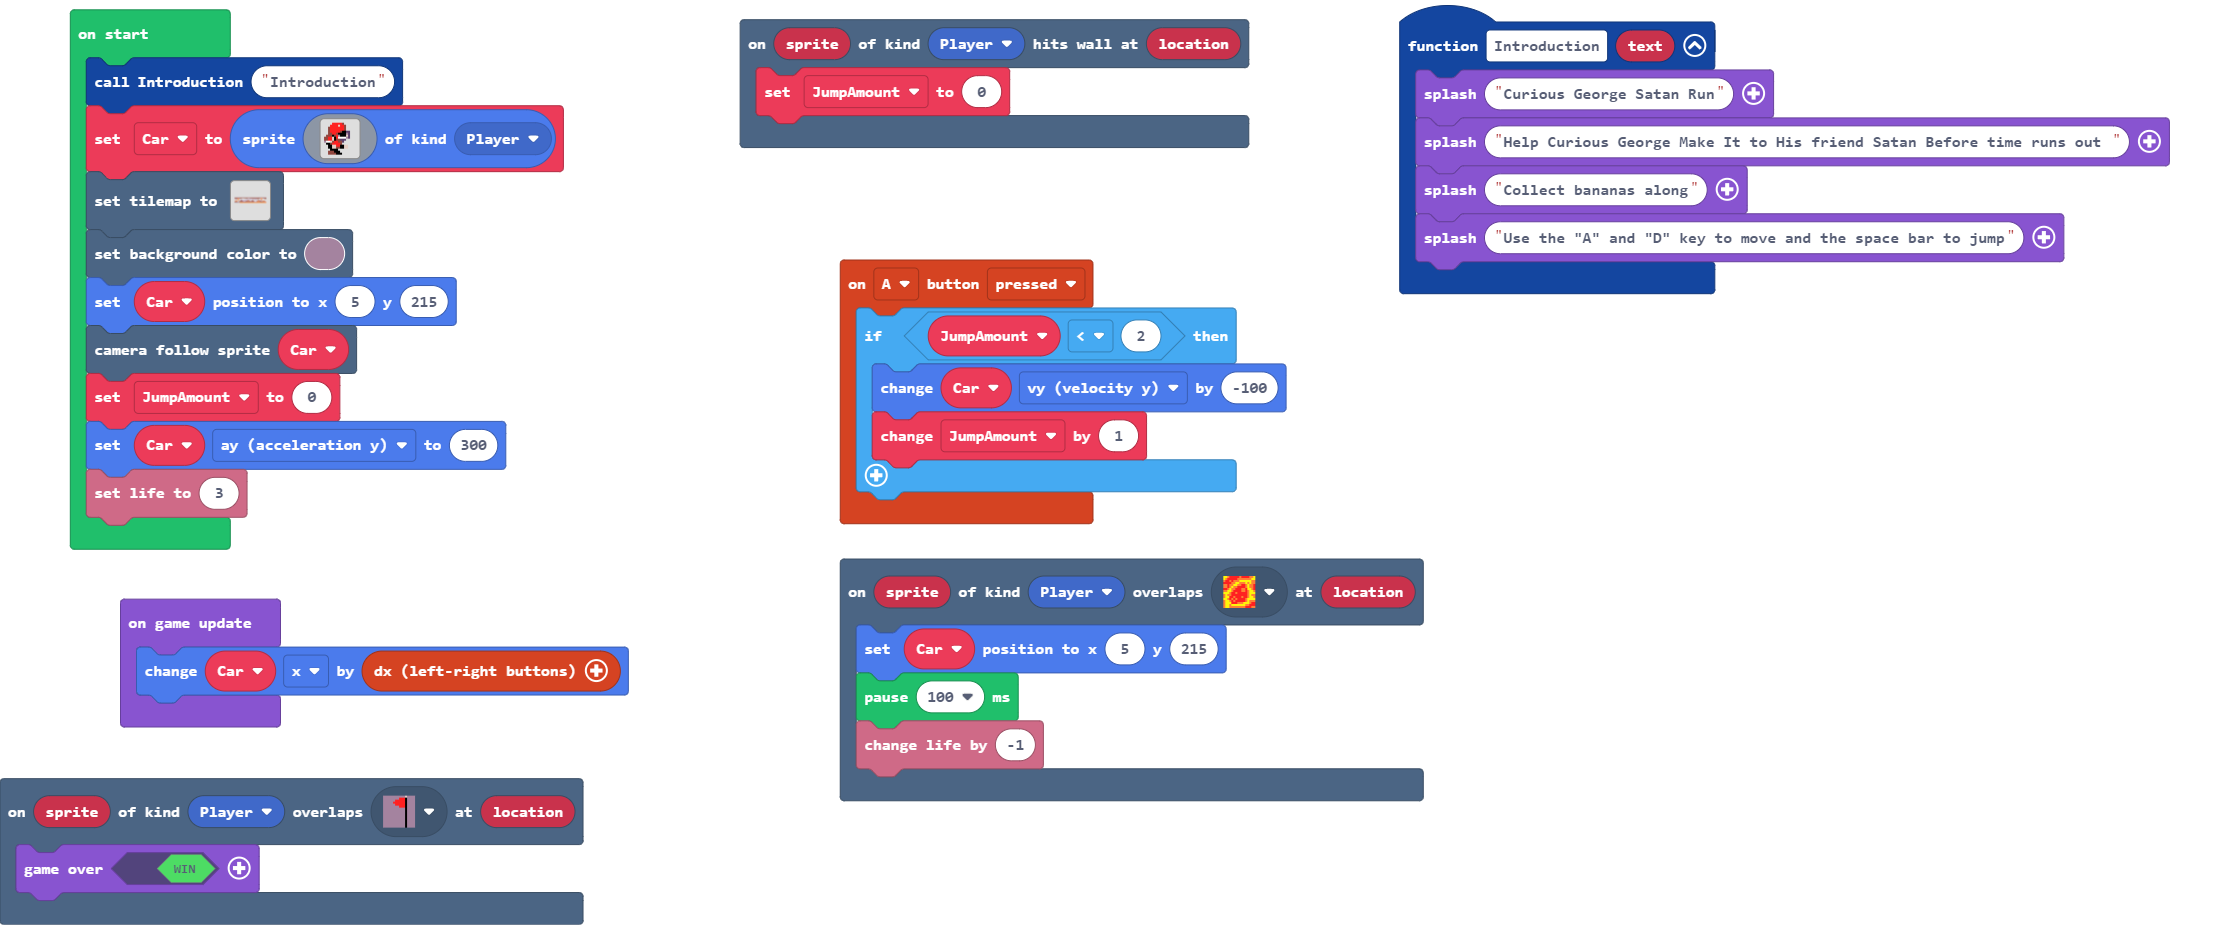
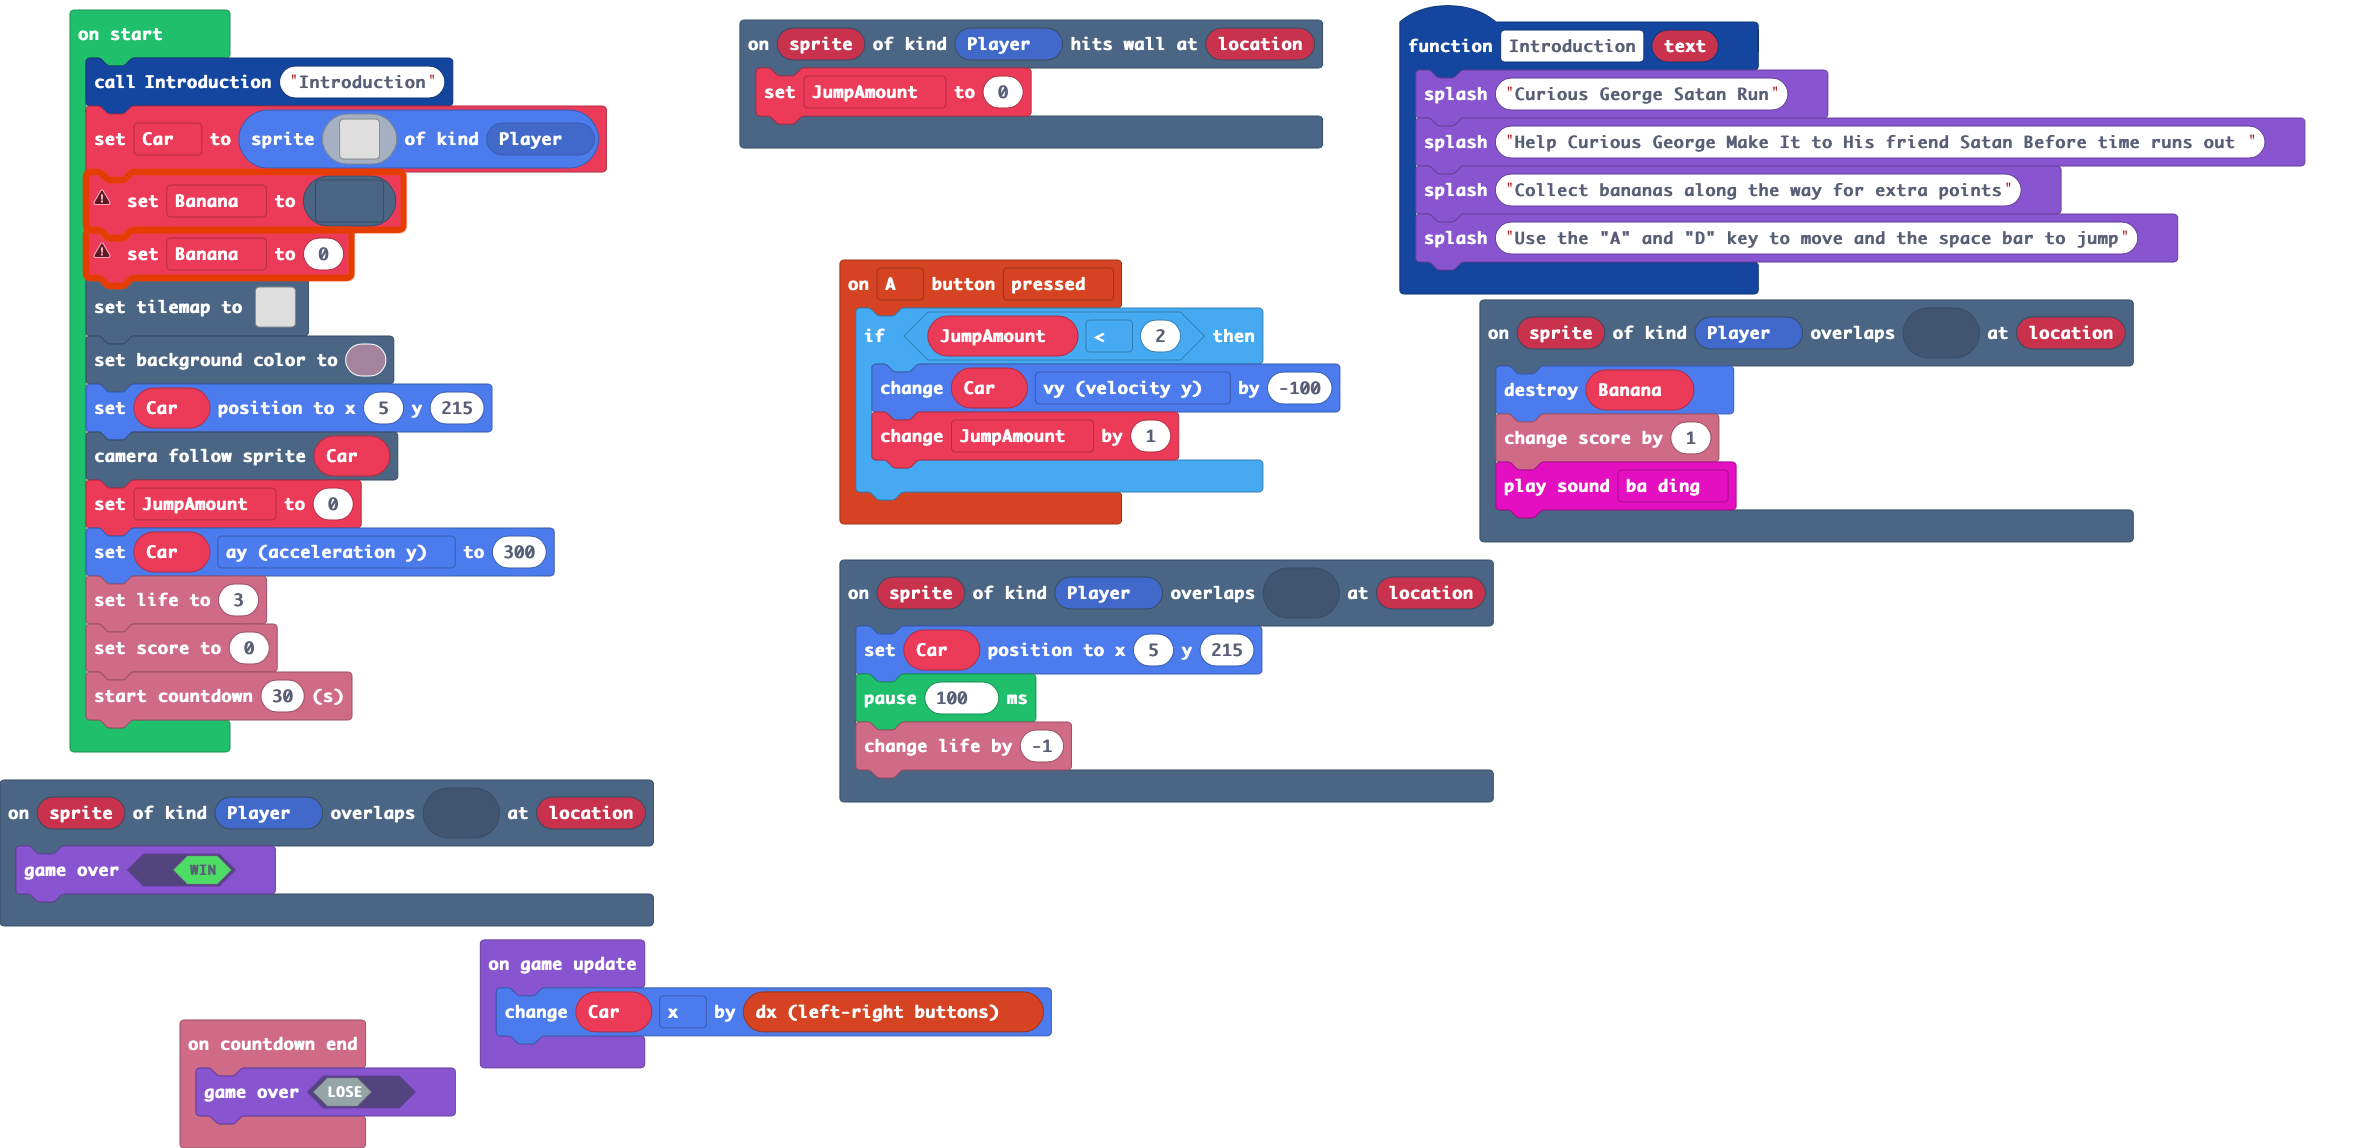
Update main.blocks, main.ts, tilemap.g.jres, tilemap.g.ts

diff --git a/tilemap.g.ts b/tilemap.g.ts
@@ -3,32 +3,32 @@ namespace myTiles {
     //% fixedInstance jres blockIdentity=images._tile
     export const transparency16 = image.ofBuffer(hex``);
     //% fixedInstance jres blockIdentity=images._tile
-    export const tile5 = image.ofBuffer(hex``);
-    //% fixedInstance jres blockIdentity=images._tile
     export const tile6 = image.ofBuffer(hex``);
     //% fixedInstance jres blockIdentity=images._tile
-    export const tile7 = image.ofBuffer(hex``);
-    //% fixedInstance jres blockIdentity=images._tile
     export const tile8 = image.ofBuffer(hex``);
-    //% fixedInstance jres blockIdentity=images._tile
-    export const tile9 = image.ofBuffer(hex``);
     //% fixedInstance jres blockIdentity=images._tile
     export const tile10 = image.ofBuffer(hex``);
     //% fixedInstance jres blockIdentity=images._tile
     export const tile11 = image.ofBuffer(hex``);
-    //% fixedInstance jres blockIdentity=images._tile
-    export const tile12 = image.ofBuffer(hex``);
     //% fixedInstance jres blockIdentity=images._tile
     export const tile2 = image.ofBuffer(hex``);
     //% fixedInstance jres blockIdentity=images._tile
     export const tile1 = image.ofBuffer(hex``);
     //% fixedInstance jres blockIdentity=images._tile
     export const tile3 = image.ofBuffer(hex``);
+    //% fixedInstance jres blockIdentity=images._tile
+    export const tile12 = image.ofBuffer(hex``);
+    //% fixedInstance jres blockIdentity=images._tile
+    export const tile9 = image.ofBuffer(hex``);
+    //% fixedInstance jres blockIdentity=images._tile
+    export const tile7 = image.ofBuffer(hex``);
+    //% fixedInstance jres blockIdentity=images._tile
+    export const tile5 = image.ofBuffer(hex``);
 
     helpers._registerFactory("tilemap", function(name: string) {
         switch(helpers.stringTrim(name)) {
             case "level1":
[2 lines of base64/hex data omitted]
 ....................................................................................................
 ....................................................................................................
 ....................................................................................................
@@ -37,15 +37,15 @@ namespace myTiles {
 ...............................................................22222................................
 .......................................22222........................................................
 .................................2222......................................222......................
-............................2222.................................................2222...............
-...................2222222..........................222................22...........................
-...............2...................2222...............................2.................22..........
+............................2222.................................................2..................
+...................2222222..........................222................22...........2...............
+...............2...................2222...............................2..................2..........
 ..............22...............................2222........2222......2..............................
 .............2.2...........222222.......22222...................2...2...............................
 ............2..2..................................................22..........................222222
 222222222222...2....................................................................................
 2222222222222222222222222222222222222222222222222222222222222222222222222222222222222222222222222222
-`, [myTiles.transparency16,sprites.dungeon.floorLightMoss,sprites.dungeon.stairLarge,sprites.dungeon.stairWest,sprites.dungeon.darkGroundNorthWest1,sprites.dungeon.hazardLava0,sprites.dungeon.purpleOuterNorth0,myTiles.tile6,myTiles.tile8,myTiles.tile2,myTiles.tile1,myTiles.tile3], TileScale.Sixteen);
+`, [myTiles.transparency16,sprites.dungeon.floorLightMoss,sprites.dungeon.stairLarge,sprites.dungeon.stairWest,sprites.dungeon.darkGroundNorthWest1,sprites.dungeon.hazardLava0,sprites.dungeon.purpleOuterNorth0,myTiles.tile6,myTiles.tile8,myTiles.tile2,myTiles.tile1,myTiles.tile3,myTiles.tile9,myTiles.tile12,myTiles.tile7], TileScale.Sixteen);
         }
         return null;
     })
@@ -53,28 +53,28 @@ namespace myTiles {
     helpers._registerFactory("tile", function(name: string) {
         switch(helpers.stringTrim(name)) {
             case "transparency16":return transparency16;
-            case "myTile3":
-            case "tile5":return tile5;
             case "myTile4":
             case "tile6":return tile6;
-            case "myTile5":
-            case "tile7":return tile7;
             case "myTile6":
             case "tile8":return tile8;
-            case "myTile7":
-            case "tile9":return tile9;
             case "myTile8":
             case "tile10":return tile10;
             case "myTile9":
             case "tile11":return tile11;
-            case "myTile10":
-            case "tile12":return tile12;
             case "myTile0":
             case "tile2":return tile2;
             case "myTile":
             case "tile1":return tile1;
             case "myTile1":
             case "tile3":return tile3;
+            case "Satan Head":
+            case "tile12":return tile12;
+            case "myTile7":
+            case "tile9":return tile9;
+            case "Banana":
+            case "tile7":return tile7;
+            case "myTile3":
+            case "tile5":return tile5;
         }
         return null;
     })

diff --git a/main.ts b/main.ts
@@ -15,33 +15,44 @@ scene.onOverlapTile(SpriteKind.Player, sprites.dungeon.hazardLava0, function (sp
     pause(100)
     info.changeLifeBy(-1)
 })
+info.onCountdownEnd(function () {
+    game.over(false)
+})
 function Introduction (text: string) {
     game.splash("Curious George Satan Run")
     game.splash("Help Curious George Make It to His friend Satan Before time runs out ")
-    game.splash("Collect bananas along")
+    game.splash("Collect bananas along the way for extra points")
     game.splash("Use the \"A\" and \"D\" key to move and the space bar to jump")
 }
+scene.onOverlapTile(SpriteKind.Player, assets.tile`Banana`, function (sprite, location) {
+    Banana.destroy()
+    info.changeScoreBy(1)
+    music.baDing.play()
+})
 let JumpAmount = 0
+let Banana: Sprite = null
 let Car: Sprite = null
 Introduction("Introduction")
 Car = sprites.create(img`
-    . . . . 2 2 2 2 2 e . . . . . . 
-    . . . 2 2 2 2 d 2 2 e . . . . . 
-    . . e 2 2 2 2 2 2 2 e . . . . . 
-    . . e 2 2 2 2 2 2 2 e . . . . . 
-    . . e 2 2 2 2 2 e f f c c . . . 
-    . . e e 2 2 e f f f f b c . . . 
-    . e e e f e 2 b f f f d c . . . 
-    e e 2 2 d f 2 1 1 1 1 b c . . . 
-    e e 2 2 d f e e c c c . . . . . 
-    b 1 1 d e 2 2 e e c . . . . . . 
-    . f f e 2 2 2 2 e . . . . . . . 
-    . . f f d d 2 2 f f d d . . . . 
-    . . f f d d e e f f d d . . . . 
-    . . . f f f f . . . . . . . . . 
-    . . e e e f f f . . . . . . . . 
-    . . e e e e f f f . . . . . . . 
+    . . . . . . . f f f f f . . . . 
+    . . . . . . f e e e e e f . . . 
+    . . . . . f e e e d d d d f . . 
+    . . . . f f e e d f d d f d 4 . 
+    . . . f d d e e d f d d f d 4 . 
+    . . . 4 d 4 e e d d d d e e d 4 
+    f f . 4 d 4 e e d d 4 d d d d 4 
+    f e f . 4 f e e d d d 4 4 4 4 4 
+    f e f . . f f e e d d d d d f . 
+    f e f . f e e e e f f f f f . . 
+    f e f f e e e e e e e f . . . . 
+    . f f e e e e f e f f e f . . . 
+    . . f e e e e f e f f e f . . . 
+    . . . f e f f 4 d f 4 d f . . . 
+    . . . f d 4 4 d d 4 d d f . . . 
+    . . . f f f f f f f f f . . . . 
     `, SpriteKind.Player)
+Banana = assets.tile`Banana`
+Banana = 0
 tiles.setTilemap(tilemap`level1`)
 scene.setBackgroundColor(11)
 Car.setPosition(5, 215)
@@ -49,6 +60,8 @@ scene.cameraFollowSprite(Car)
 JumpAmount = 0
 Car.ay = 300
 info.setLife(3)
+info.setScore(0)
+info.startCountdown(30)
 game.onUpdate(function () {
     Car.x += controller.dx()
 })
